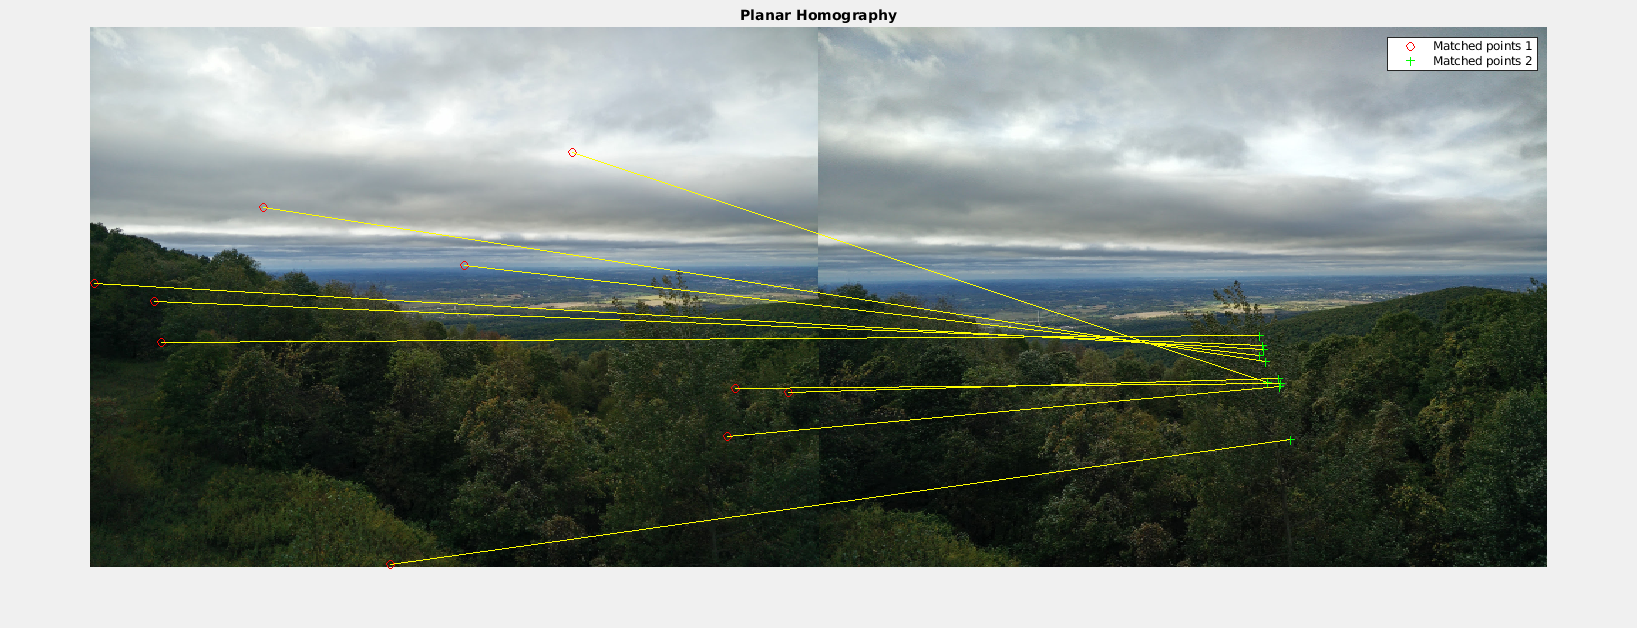
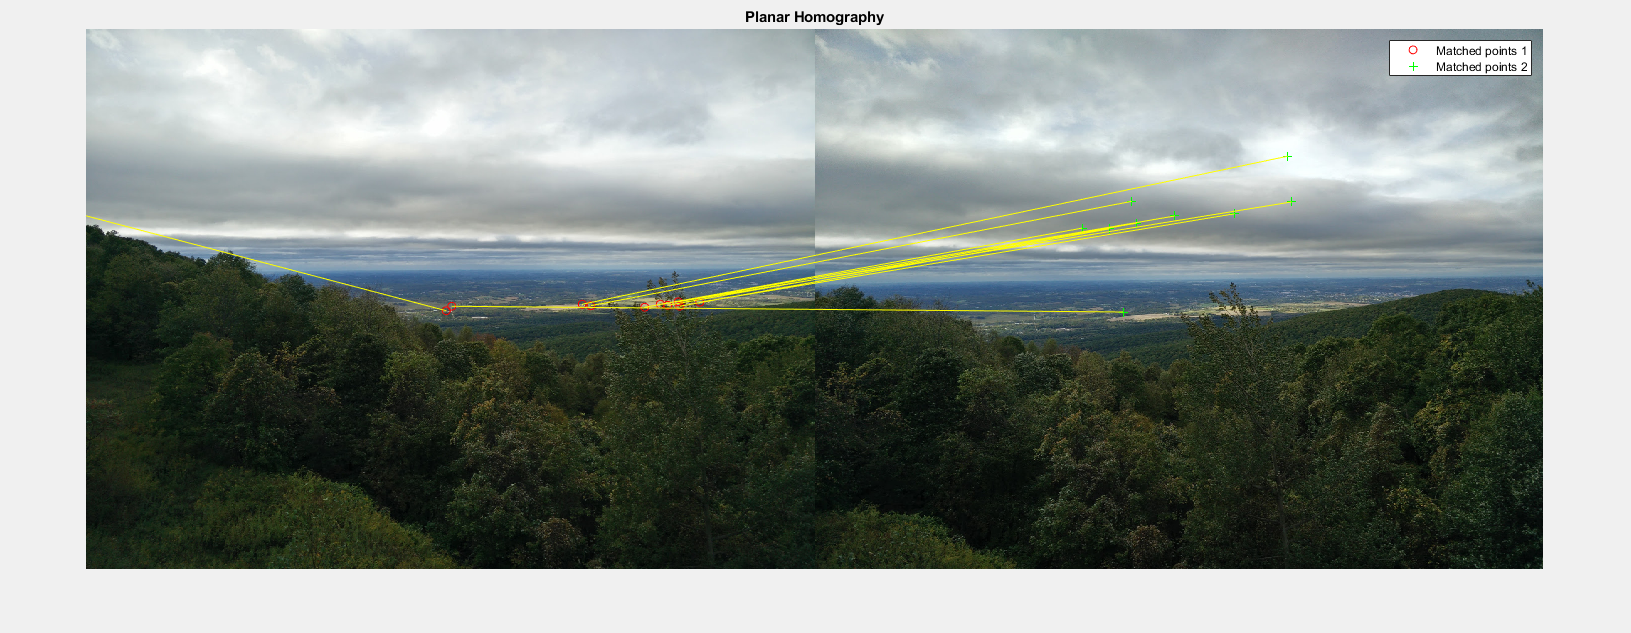
correcting the homography testing bug

diff --git a/Assignment 4/matlab/homography_test.m b/Assignment 4/matlab/homography_test.m
@@ -7,33 +7,32 @@ pano_right = imread("../data/pano_right.jpg");
 
 [locs1, locs2] = matchPics(pano_left, pano_right);
 
-idy = randi([1, size(pano_left, 1)], 1, 10);		% 10 random points
-idx = randi([1, size(pano_left, 2)], 1, 10);
+% using first 10 of these random points for homography testing
+idx = randperm(size(locs1, 1));
 
-rand_locs1 = [idx; idy]';
-locs1_appended = horzcat(rand_locs1, ones(size(rand_locs1, 1), 1))';
+[H2to1] = computeH(locs1(1:10, :), locs2(1:10, :));
 
-[H2to1] = computeH(locs1, locs2);
+locs1_appended = horzcat(locs1(11:20, :), ones(size(locs1(11:20, :), 1), 1))';
 
 locs2_gen = (H2to1 * locs1_appended)';
-locs2_gen = locs2_gen(:, 1:2) ./ locs2_gen(:, 3)
+locs2_gen = locs2_gen(:, 1:2) ./ locs2_gen(:, 3);
 
 %% Visualize the point-pairs.
 fig = figure; ax = axes;
-showMatchedFeatures(pano_left, pano_right, rand_locs1, locs2_gen, "montage", "Parent", ax);
+showMatchedFeatures(pano_left, pano_right, locs1(11:20, :), locs2_gen, "montage", "Parent", ax);
 legend(ax, "Matched points 1", "Matched points 2");
 title(ax, "Planar Homography");
 frame = getframe(fig);
 imwrite(frame2im(frame), "../results/homography.png");
 
-[H2to1] = computeH_norm(locs1, locs2);
+[H2to1] = computeH_norm(locs1(1:10, :), locs2(1:10, :));
 
 locs2_gen = (H2to1 * locs1_appended)';
-locs2_gen = locs2_gen(:, 1:2) ./ locs2_gen(:, 3)
+locs2_gen = locs2_gen(:, 1:2) ./ locs2_gen(:, 3);
 
 %% Visualize the point-pairs.
 fig = figure; ax = axes;
-showMatchedFeatures(pano_left, pano_right, rand_locs1, locs2_gen, "montage", "Parent", ax);
+showMatchedFeatures(pano_left, pano_right, locs1(11:20, :), locs2_gen, "montage", "Parent", ax);
 legend(ax, "Matched points 1", "Matched points 2");
 title(ax, "Normalized Planar Homography");
 frame = getframe(fig);
